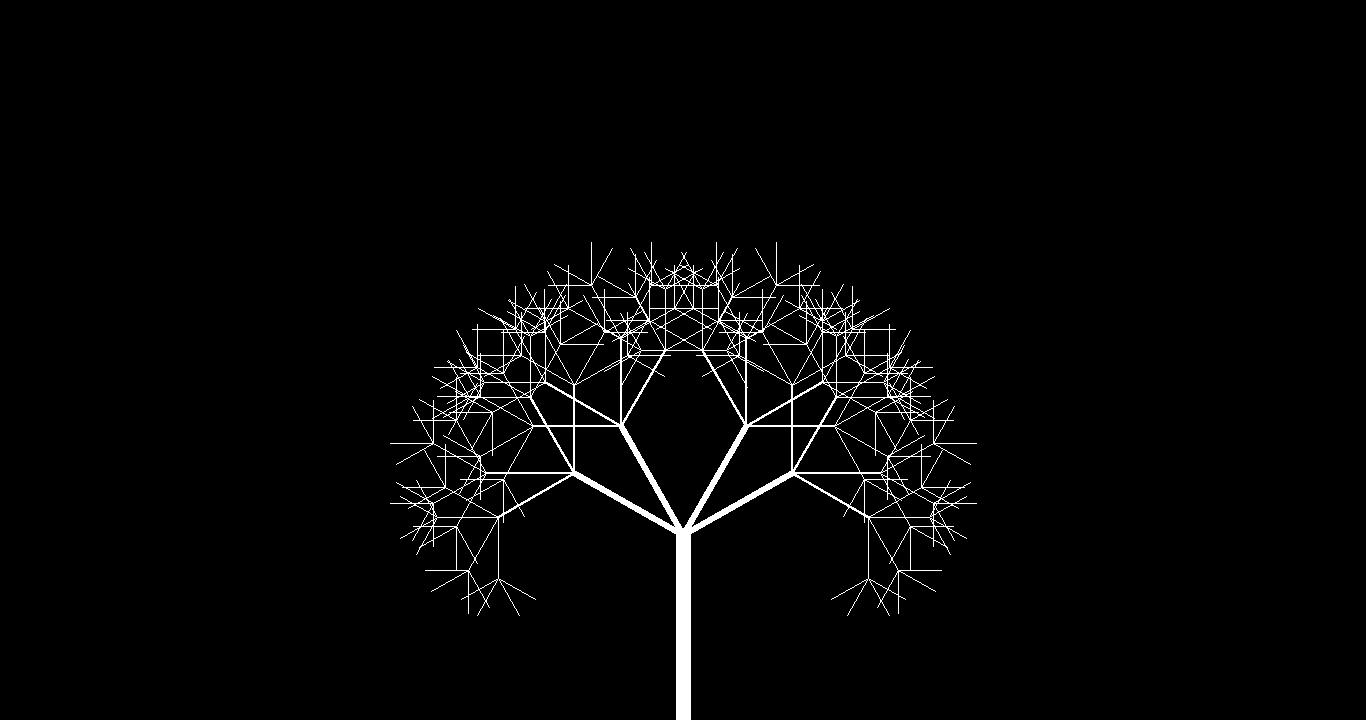
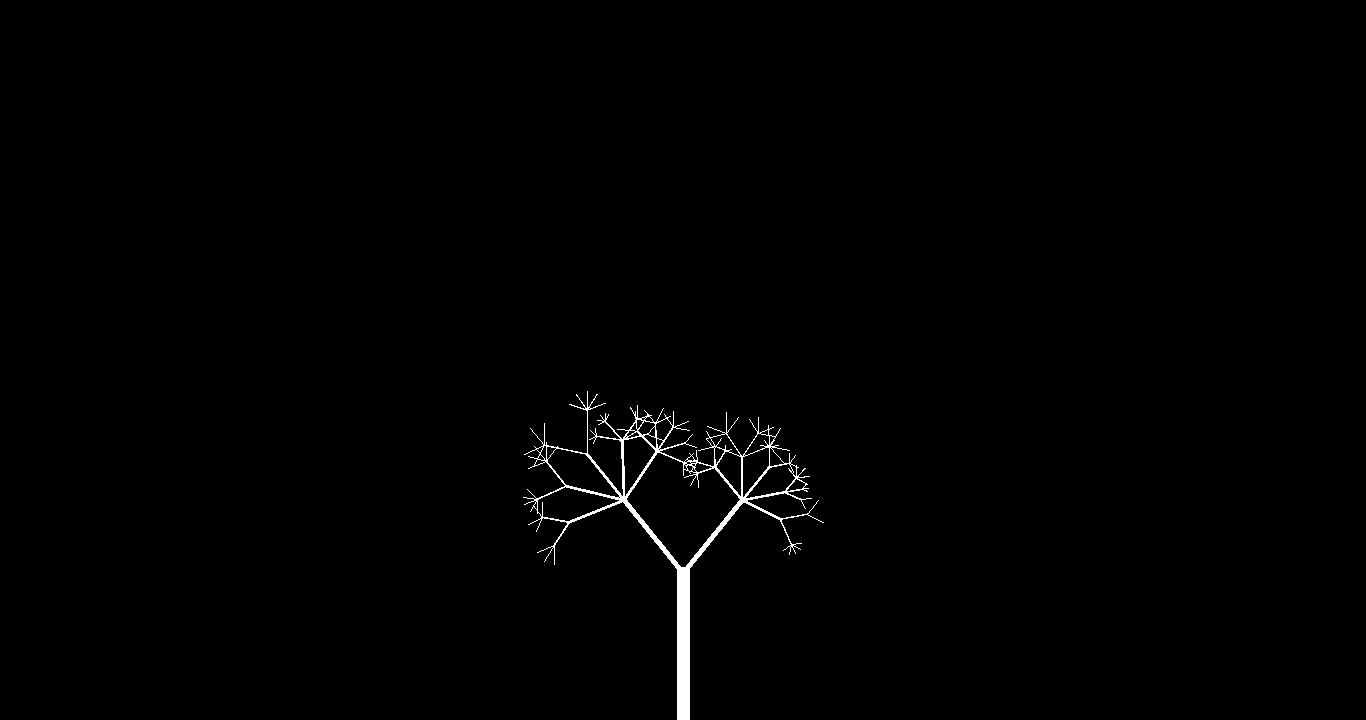
Rangos en fractales

Changed region(s): [[0.2767, 0.3667, 0.7072, 0.7944], [0.6149, 0.7028, 0.6457, 0.7333], [0.3382, 0.7944, 0.369, 0.825]]

diff --git a/Fractales/src/fractales/Fractales.java b/Fractales/src/fractales/Fractales.java
@@ -21,27 +21,35 @@ import javax.swing.JFrame;
 public class Fractales extends JFrame {
  
     //Funcion(g2D, x1, x2, anguloInicial, anguloRamas, profundidad, ramas, longitud, modLongitud, diametro, modDiametro)
-    private static double ang = 30;
-    private static int prof = 5;
-    private static int ramas =4;
-    private static double longitud = 18;
-    private static double decLong = 0.3;
-    private static double diametro=15;
-    private static double decDiam = .6;
+    private double [] angulo = new double [2];
+    private int profundidad; 
+    private int [] ramas = new int [2]; 
+    private double longitudInicial; 
+    private double [] decLongitud = new double[2]; 
+    private double diametroInicial; 
+    private double [] decDiametro = new double [2]; 
     
     
-    
-    public Fractales() {
+    //Constructor de la clase, recibe todos los parametros necesarios para crear el arbol
+    public Fractales(int prof, double diaI, double longI, double [] decL, double[] decD, int [] ram, double [] ang) {
+        
         super("Fractal Tree");
         setBounds(100, 100, 1366, 720);
-        setDefaultCloseOperation(EXIT_ON_CLOSE);
         setExtendedState(JFrame.MAXIMIZED_BOTH);
+        
+        this.profundidad = prof;
+        this.diametroInicial = diaI;
+        this.longitudInicial = longI;
+        this.decLongitud = decL;
+        this.decDiametro = decD;
+        this.ramas = ram;
+        this.angulo = ang;
     }
     
     
     //Función que dibuja el árbol
-    private void drawTree(Graphics2D g, int x1, int y1, double angulo, double anguloRam, int profundidad, int ramas, double longitud, 
-                          double decLong, double diametro, double decDiam) {
+    private void drawTree(Graphics2D g, int x1, int y1, double angulo, double [] anguloRam, int profundidad, int[] ramas, double longitud, 
+                          double [] decLong, double diametro, double [] decDiam) {
         
         //Si se acaban los niveles del arbol, entonces se detiene
         if (profundidad == 0) 
@@ -57,25 +65,38 @@ public class Fractales extends JFrame {
         g.setStroke(new BasicStroke((float) (diametro)));
         g.drawLine(x1, y1, x2, y2);
         
+        
+        //Saca los randoms de los modificadores de longitud y diametro
+        double modLong = RandomDouble(decLong[1], decLong[0]) / 100;
+        double modDiam = RandomDouble(decDiam[1], decDiam[0]) / 100;
+        
+        
         //Configura la longitud y el diametro para la siguiente llamada recursiva
-        longitud -= longitud * decLong;
-        diametro -= diametro * decDiam;
+        longitud -= longitud * modLong;
+        diametro -= diametro * modDiam;
+        
+        
+        //Saca el random para el angulo de las ramas
+        double anguloTmp = RandomDouble(anguloRam[1], anguloRam[0]);
+        
+        //Saca el random de cuantas ramas tiene cada nivel
+        int ramasTmp = RandomInt(ramas[1], ramas[0]);
         
         //Obtiene la mitad de las ramas y lo multiplica por -1, para obtener el modificador del angulo, al poner las ramas
-        int mod = (ramas/2)*-1;
+        int mod = (ramasTmp/2)*-1;
             
         
         //Itera sobre la cantidad de ramas dadas, para formar las mismas
-        for(int i=1; i < ramas+1; i++){
+        for(int i=1; i < ramasTmp+1; i++){
             
             //Llamado recursivo
-            drawTree(g, x2, y2, (angulo + anguloRam * mod), anguloRam, profundidad - 1, ramas, longitud, decLong, diametro, decDiam);
+            drawTree(g, x2, y2, (angulo + anguloTmp * mod), anguloRam, profundidad - 1, ramas, longitud, decLong, diametro, decDiam);
             
             //Aumenta el modificador
             mod++;
             
             //Si las ramas son pares y se encuentra en la rama media, entonces aumenta el modificador para acomodar las ramas bien
-            if(ramas%2==0 && i == ramas/2)
+            if(ramasTmp%2==0 && i == ramasTmp/2)
                 mod++;
             
         }
@@ -90,46 +111,97 @@ public class Fractales extends JFrame {
         
         
         //Funcion(g2D, x1, x2, anguloInicial, anguloRamas, profundidad, ramas, longitud, modLongitud, diametro, modDiametro)
-        drawTree(g2D, 683, 715, -90, ang, prof, ramas, longitud, decLong, diametro, decDiam);
+        drawTree(g2D, 683, 715, -90, this.angulo, this.profundidad, this.ramas, this.longitudInicial, this.decLongitud, this.diametroInicial, this.decDiametro);
         
     }
     
     
-    public static void fun(String nom) throws IOException{
+    public static void fun() throws IOException{
 
         
+        double [] longitud = new double [2];
+        longitud [0] = 13;
+        longitud [1] = 25;
         
-        GuardarImagen imagen = new GuardarImagen();
-        imagen.saveImagen(nom);
+        
+        double [] diametro = new double [2];
+        diametro [0] = 12;
+        diametro [1] = 23;
+        
+        int [] profundidad = new int [2];
+        profundidad [0] = 5;
+        profundidad [1] = 10;
         
         
+        double []decDiametro = new double [2];
+        decDiametro[0] = 30;
+        decDiametro[1] = 65;
+        
+        double []decLongitud = new double [2];
+        decLongitud[0] = 25;
+        decLongitud[1] = 70;
+        
+        int [] ramas = new int[2];
+        ramas[0] = 2;
+        ramas[1] = 5;
+        
+        
+        double [] angulo = new double [2];
+        angulo[0] = 33;
+        angulo[1] = 40;
+                
+        
+        
+        //Crea una generación de 10 individuos
+        for (int i=0; i<10; i++){
+           
+            
+            //Genera random de long
+            double lon = RandomDouble(longitud[1], longitud[0]);
+                    
+            
+            //Genera random de diametro
+            double dia = RandomDouble(diametro[1], diametro[0]);
+
+             
+            //Genera random de profundidad
+            int prof = RandomInt(profundidad[1], profundidad[0]);
+            
+            //Crea un frame de fractales
+            JFrame f = new Fractales(prof, dia, lon, decLongitud, decDiametro, ramas, angulo);
+            
+            GuardarImagen imagen = new GuardarImagen();
+            imagen.saveImagen(Integer.toString(i),f);
+
+        }        
     }
     
     
  
     public static void main(String[] args) throws FileNotFoundException, IOException {
-        
-       
-        
-        for(int i=0; i<2; i++){
-            
-            fun(Integer.toString(i));
-            
-            ang = 15;
-            prof = 6;
-            ramas = 3;
-            longitud = 21;
-            decLong = .3;
-            diametro = 30;
-            decDiam = .6;
 
-        }
-        
-        
-        
+        fun();
+
         Fitness fit = new Fitness();
-        
-        System.out.println(fit.Algoritmo("0.jpg", "1.jpg"));
 
+        for (int i =0; i<10; i++){
+           System.out.println(Integer.toString(i)+": "+fit.Algoritmo(Integer.toString(i)+".jpg", "prueba2.jpg"));
+        }
+
+    }
+    
+    //Función encargada de sacar randoms en tipo de datos double
+    public static double RandomDouble(double mayor, double menor){
+        
+        return Math.random()*( mayor - menor) + menor;
+        
+    }
+    
+    
+    //Función encargada de sacar randoms en tipo de datos int
+    public static int RandomInt(int mayor, int menor){
+        
+        return (int) Math.floor(Math.random()*(mayor - menor +1) + menor);
+        
     }
 }

diff --git a/Fractales/src/fractales/GuardarImagen.java b/Fractales/src/fractales/GuardarImagen.java
@@ -27,11 +27,8 @@ public class GuardarImagen {
     
     
     //Funcion que guarda una imagen, recibe el nombre de la misma
-    public void saveImagen(String nombre) throws IOException {
-        
-        //Crea un frame de fractales
-        JFrame f = new Fractales();
-        
+    public void saveImagen(String nombre, JFrame f) throws IOException {
+                
         //Hace un nuevo archivo
         File fichero = new File("imagenes//"+nombre+".jpg");
         String formato = "jpg";
